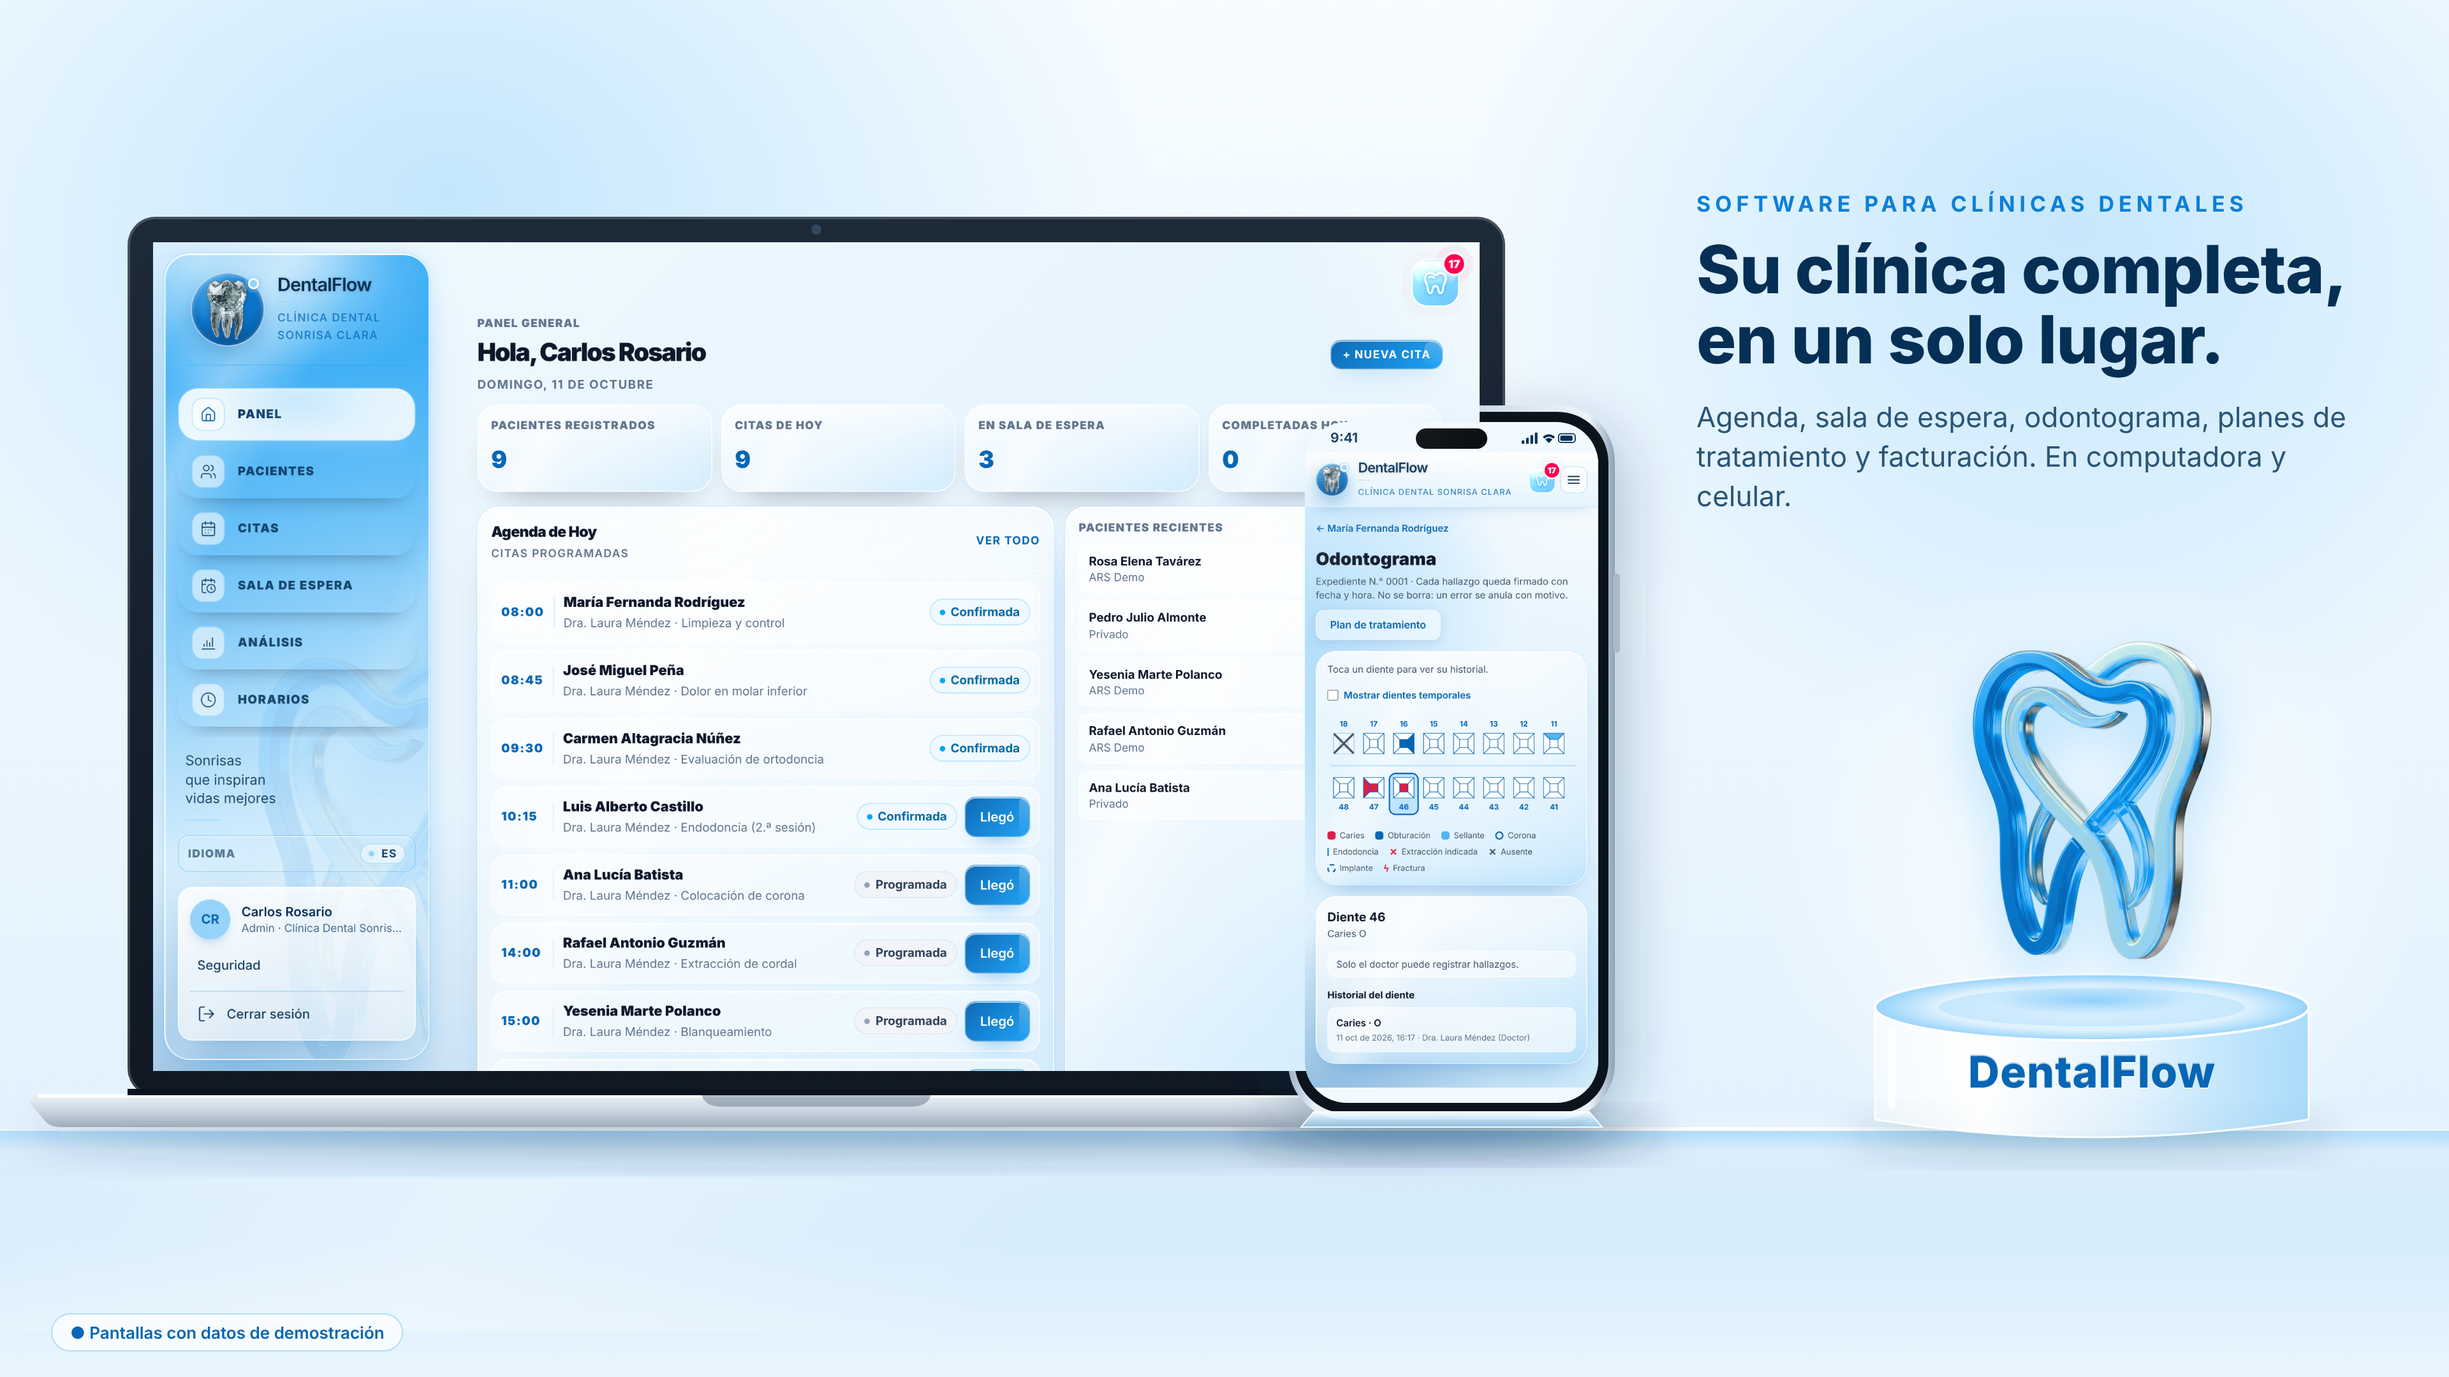
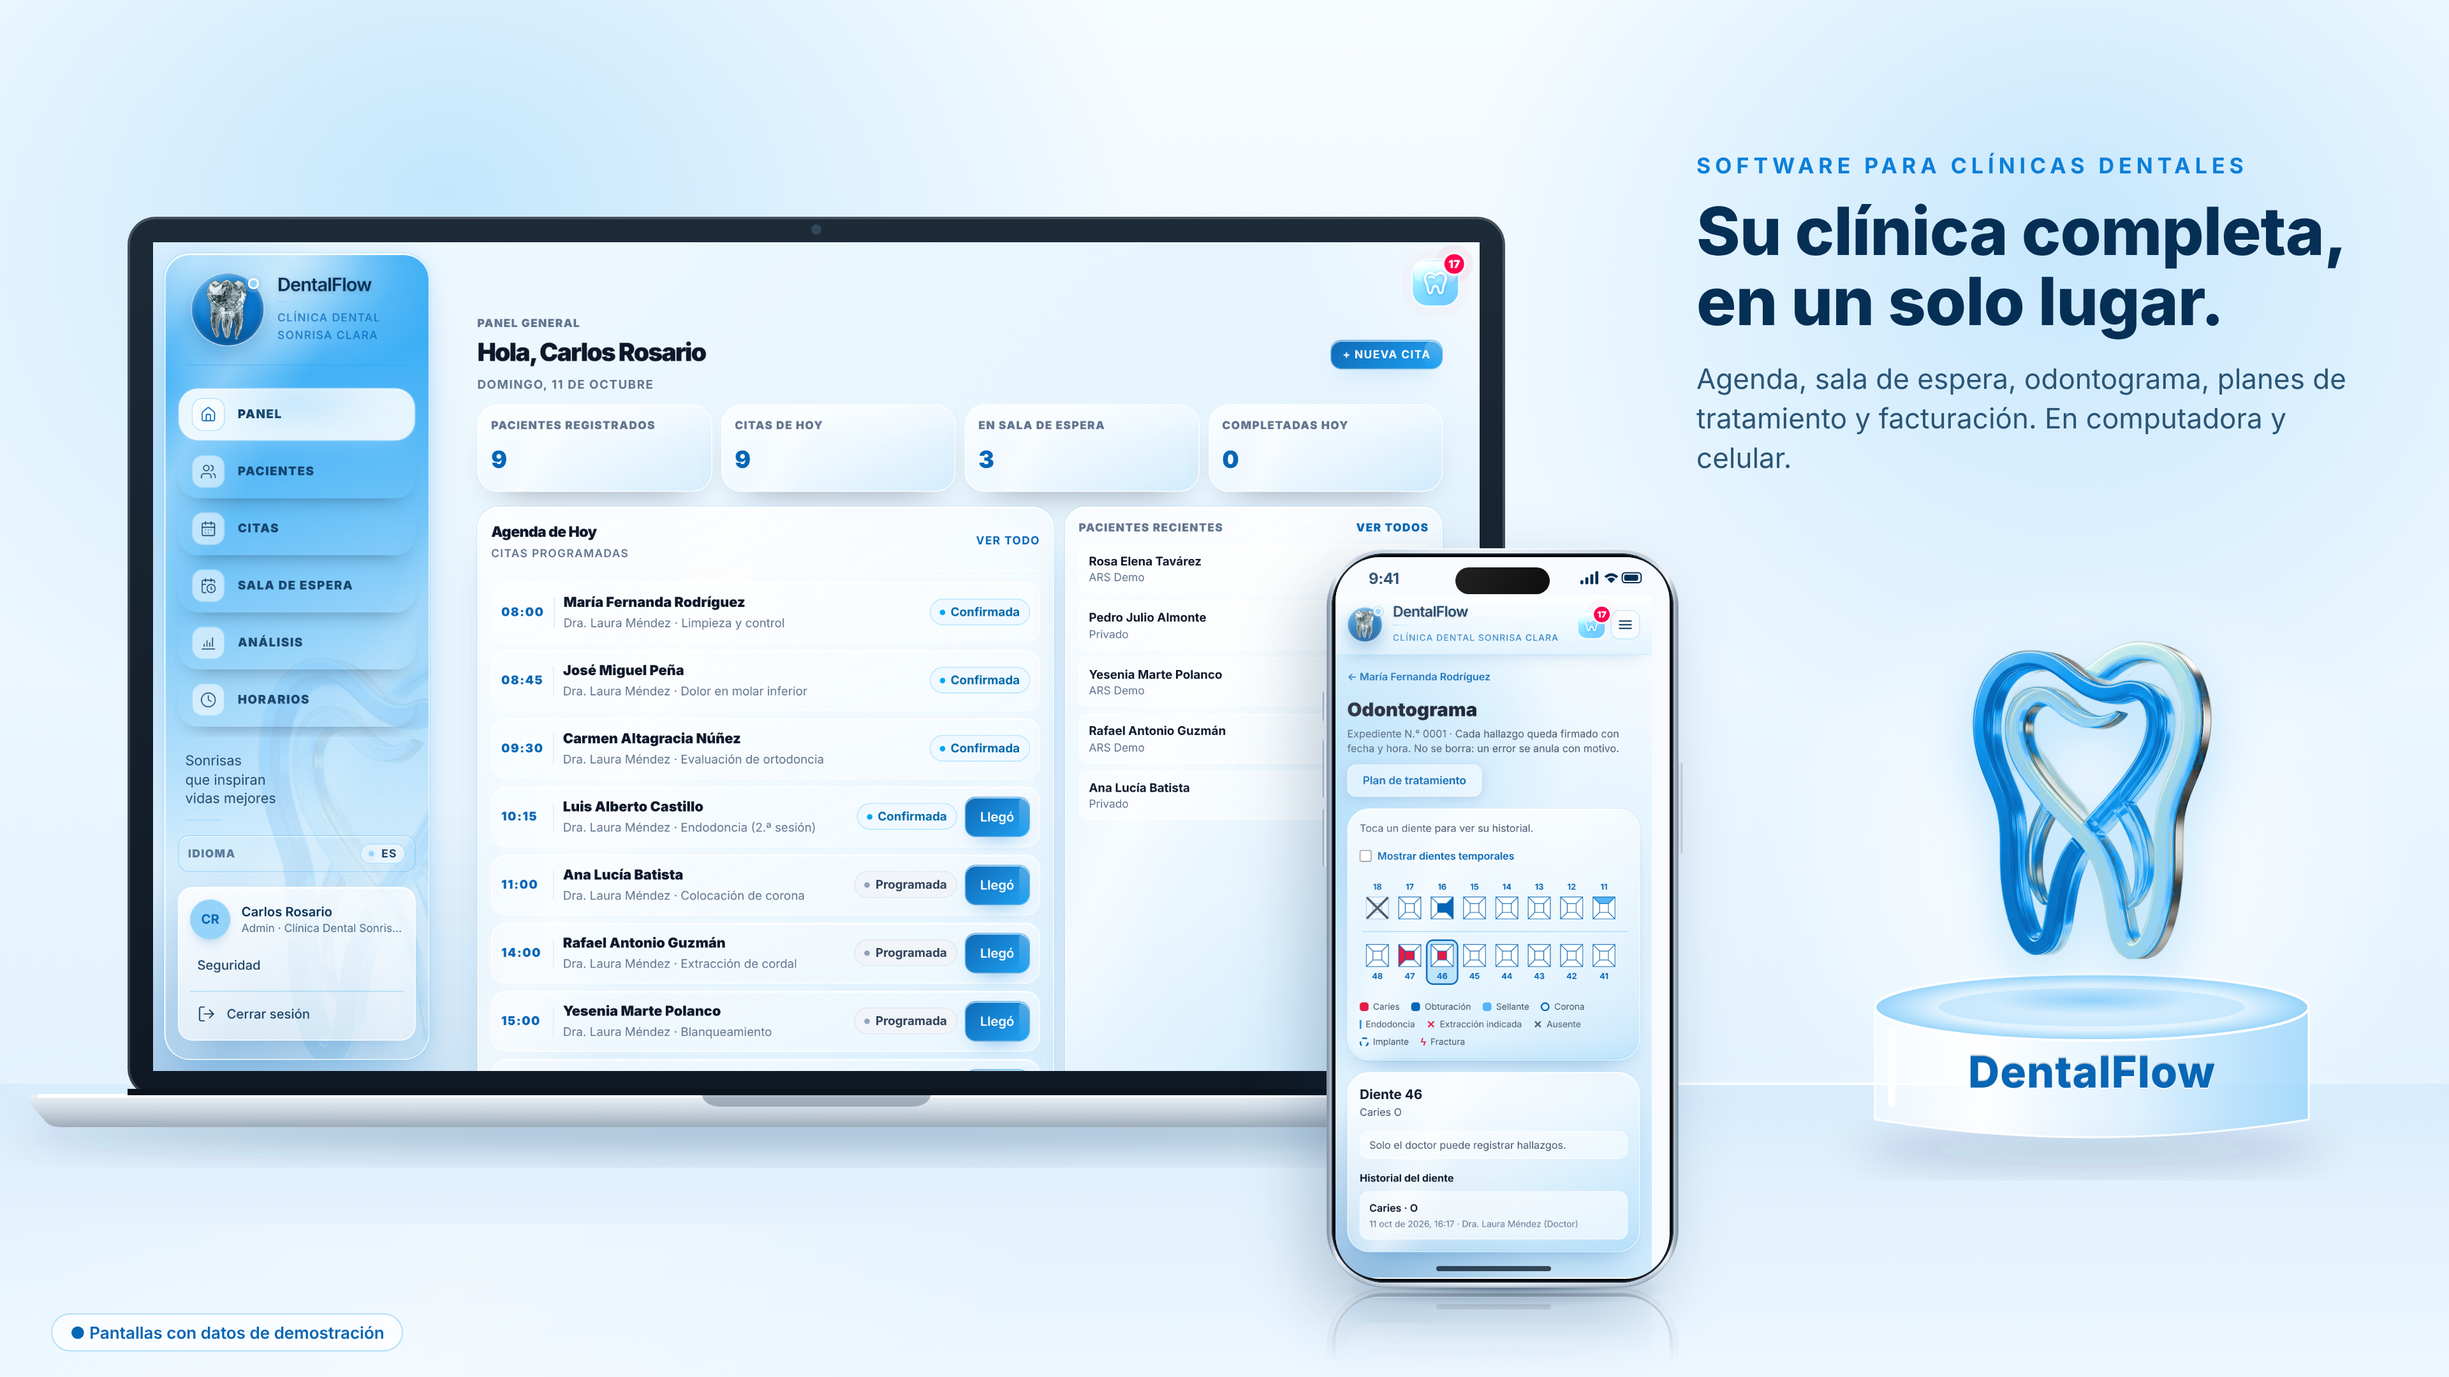
Imagen principal: celular realista delante de la laptop
- Celular nuevo: marco de titanio claro, bisel negro fino, Dynamic Island,
  barra de inicio y pantalla a ras (sin la franja vacía de abajo).
- Ya no tapa datos de la laptop a medias ni se apoya en el soporte
  trapezoidal: está delante, sobre la mesa, con sombra de contacto y reflejo.
- La mesa tiene profundidad (borde trasero suave) en vez del borde duro.
- ESLint ignora docs/ (scripts de material de venta, no son de la app).

Claude-Session: https://claude.ai/code/session_01CmWgbumtTca9EihXzwD1qY

Changed region(s): [[0.0, 0.0931, 0.9688, 0.9616], [0.875, 0.8065, 1.0, 0.8375]]

diff --git a/docs/marketing/hero/hero.html b/docs/marketing/hero/hero.html
@@ -5,36 +5,41 @@
 @font-face{font-family:Inter;src:url(file:///usr/share/fonts/opentype/inter/Inter-ExtraBold.otf);font-weight:800}
 html,body{margin:0;width:1920px;height:1080px;overflow:hidden;font-family:Inter;background:linear-gradient(180deg,#F7FCFF 0%,#EAF6FF 55%,#DCEFFD 100%)}
 .a{position:absolute}
+/* teléfono: 276×580, marco de titanio claro, bisel negro fino y pantalla a ras */
+.ph{position:absolute;width:276px;height:580px}
+.ph .btn{position:absolute;width:4px;border-radius:2px;background:linear-gradient(90deg,#8193a6,#e6edf4 45%,#a7b6c6)}
+.ph .body{position:absolute;inset:0;border-radius:46px;background:linear-gradient(90deg,#7f91a5 0%,#eef3f8 3%,#c2cedb 9%,#dde6ee 30%,#e8eef4 50%,#d3dde7 72%,#c2cedb 91%,#f2f6fa 97%,#7f91a5 100%);box-shadow:inset 0 1px 1px rgba(255,255,255,.9),inset 0 -1px 2px rgba(6,47,85,.35)}
+.ph .bezel{position:absolute;inset:4px;border-radius:42px;background:#04070b;box-shadow:inset 0 0 0 1px #26313d}
+.ph .screen{position:absolute;inset:7px;border-radius:35px;overflow:hidden;background:#F7FBFF}
+.ph .sb{height:30px;position:relative;background:#F7FBFF}
+.ph .sb .t{position:absolute;left:26px;top:9px;font-size:12px;font-weight:700;color:#062F55;letter-spacing:-.2px}
+.ph .sb svg{position:absolute;right:20px;top:11px}
+.ph .island{position:absolute;left:94px;top:8px;width:74px;height:21px;border-radius:11px;background:#000}
+.ph .shot{display:block;width:248px;height:535px}
+.ph .home{position:absolute;left:79px;bottom:6px;width:90px;height:4px;border-radius:2px;background:rgba(6,20,35,.75)}
+.ph .glare{position:absolute;inset:7px;border-radius:35px;background:linear-gradient(118deg,rgba(255,255,255,.22) 0%,rgba(255,255,255,.06) 32%,rgba(255,255,255,0) 33%)}
 </style></head><body>
 <!-- brillos -->
 <div class="a" style="left:-200px;top:-300px;width:1100px;height:900px;border-radius:50%;background:radial-gradient(closest-side,rgba(149,211,250,.5),transparent)"></div>
 <div class="a" style="left:1150px;top:-250px;width:950px;height:850px;border-radius:50%;background:radial-gradient(closest-side,rgba(83,182,247,.28),transparent)"></div>
 <div class="a" style="left:1380px;top:440px;width:520px;height:520px;border-radius:50%;background:radial-gradient(closest-side,rgba(255,255,255,.95),transparent)"></div>
-<!-- piso bajo la mesa -->
-<div class="a" style="left:0;top:884px;width:1920px;height:196px;background:linear-gradient(180deg,#D3EAFB,#C4E2F8)"></div>
+<!-- mesa de cristal con profundidad: borde trasero en y=850; laptop apoyada en 884, diente en ~905, teléfono delante en 1010 -->
+<div class="a" style="left:0;top:850px;width:1920px;height:230px;background:linear-gradient(180deg,#D5EBFC 0%,#E1F1FD 30%,#EDF7FF 100%)"></div>
+<div class="a" style="left:0;top:849px;width:1920px;height:2px;background:linear-gradient(90deg,rgba(255,255,255,0),rgba(255,255,255,.95) 20%,rgba(255,255,255,.95) 80%,rgba(255,255,255,0));box-shadow:0 0 14px rgba(255,255,255,.9)"></div>
 <!-- reflejos en el vidrio -->
-<div class="a" style="left:120px;top:888px;width:1040px;height:190px;overflow:hidden;opacity:.22;-webkit-mask-image:linear-gradient(180deg,#000,transparent 85%)"><img src="hero_desktop.png" style="width:1040px;height:650px;transform:scaleY(-1);transform-origin:top;margin-top:-650px;display:block"></div>
-<div class="a" style="left:1020px;top:888px;width:236px;height:150px;overflow:hidden;opacity:.25;-webkit-mask-image:linear-gradient(180deg,#000,transparent 80%)"><img src="hero_mobile.png" style="width:236px;height:511px;transform:scaleY(-1);transform-origin:top;margin-top:-511px;display:block"></div>
-<!-- mesa de cristal -->
-<div class="a" style="left:0;top:884px;width:1920px;height:196px;background:linear-gradient(180deg,rgba(255,255,255,.18),rgba(224,242,254,.55) 45%,rgba(240,249,255,.85))"></div>
-<div class="a" style="left:0;top:884px;width:1920px;height:3px;background:linear-gradient(90deg,rgba(255,255,255,.4),#fff 30%,#fff 70%,rgba(255,255,255,.4));box-shadow:0 0 18px rgba(255,255,255,.9)"></div>
-<div class="a" style="left:0;top:887px;width:1920px;height:16px;background:linear-gradient(180deg,rgba(14,155,243,.22),transparent)"></div>
-<div class="a" style="left:-100px;top:924px;width:900px;height:120px;transform:skewX(-35deg);background:linear-gradient(90deg,transparent,rgba(255,255,255,.35),transparent)"></div>
+<div class="a" style="left:120px;top:888px;width:1040px;height:190px;overflow:hidden;opacity:.2;-webkit-mask-image:linear-gradient(180deg,#000,transparent 80%)"><img src="hero_desktop.png" style="width:1040px;height:650px;transform:scaleY(-1);transform-origin:top;margin-top:-650px;display:block"></div>
+<div class="a" style="left:-100px;top:960px;width:900px;height:120px;transform:skewX(-35deg);background:linear-gradient(90deg,transparent,rgba(255,255,255,.35),transparent)"></div>
 <svg class="a" style="left:0;top:0" width="1920" height="1080">
  <defs>
   <linearGradient id="lid" x1="0" y1="0" x2="0" y2="1"><stop offset="0" stop-color="#1d2a38"/><stop offset="1" stop-color="#0f1823"/></linearGradient>
   <linearGradient id="base" x1="0" y1="0" x2="0" y2="1"><stop offset="0" stop-color="#eef3f8"/><stop offset=".45" stop-color="#cfd9e3"/><stop offset="1" stop-color="#9eacba"/></linearGradient>
-  <linearGradient id="frame" x1="0" y1="0" x2="1" y2="0"><stop offset="0" stop-color="#9fb2c4"/><stop offset=".08" stop-color="#e9f1f8"/><stop offset=".5" stop-color="#c7d5e2"/><stop offset=".92" stop-color="#eef4fa"/><stop offset="1" stop-color="#8ea2b6"/></linearGradient>
   <linearGradient id="ped" x1="0" y1="0" x2="1" y2="0"><stop offset="0" stop-color="rgba(255,255,255,.55)"/><stop offset=".25" stop-color="rgba(255,255,255,.95)"/><stop offset=".6" stop-color="rgba(224,242,254,.85)"/><stop offset="1" stop-color="rgba(149,211,250,.75)"/></linearGradient>
   <radialGradient id="pedtop" cx=".5" cy=".5" r=".5"><stop offset="0" stop-color="#fff"/><stop offset=".7" stop-color="#E0F2FE"/><stop offset="1" stop-color="#95D3FA"/></radialGradient>
-  <linearGradient id="plinth" x1="0" y1="0" x2="0" y2="1"><stop offset="0" stop-color="rgba(255,255,255,.95)"/><stop offset="1" stop-color="rgba(149,211,250,.6)"/></linearGradient>
   <filter id="sh" x="-20%" y="-50%" width="140%" height="200%"><feGaussianBlur stdDeviation="14"/></filter>
-  <filter id="sh2" x="-30%" y="-30%" width="160%" height="160%"><feGaussianBlur stdDeviation="22"/></filter>
  </defs>
- <!-- sombras -->
- <ellipse cx="640" cy="890" rx="620" ry="16" fill="rgba(6,47,85,.28)" filter="url(#sh)"/>
- <ellipse cx="1138" cy="890" rx="170" ry="13" fill="rgba(6,47,85,.32)" filter="url(#sh)"/>
- <ellipse cx="1640" cy="890" rx="190" ry="14" fill="rgba(6,47,85,.22)" filter="url(#sh)"/>
+ <!-- sombras de contacto -->
+ <ellipse cx="640" cy="888" rx="620" ry="14" fill="rgba(6,47,85,.28)" filter="url(#sh)"/>
+ <ellipse cx="1640" cy="902" rx="185" ry="12" fill="rgba(6,47,85,.2)" filter="url(#sh)"/>
  <!-- laptop: pantalla 120,190 1040x650 -->
  <rect x="100" y="170" width="1080" height="690" rx="22" fill="url(#lid)"/>
  <rect x="101" y="171" width="1078" height="688" rx="21" fill="none" stroke="rgba(255,255,255,.18)" stroke-width="2"/>
@@ -43,37 +48,46 @@ html,body{margin:0;width:1920px;height:1080px;overflow:hidden;font-family:Inter;
  <rect x="30" y="858" width="1220" height="3" fill="rgba(255,255,255,.95)"/>
  <path d="M550 858 H730 Q728 868 714 868 H566 Q552 868 550 858Z" fill="rgba(110,128,146,.55)"/>
  <rect x="100" y="854" width="1080" height="5" fill="#0b131c"/>
- <!-- sombra del teléfono sobre la laptop -->
- <rect x="1000" y="330" width="276" height="560" rx="50" fill="rgba(6,47,85,.25)" filter="url(#sh2)"/>
- <!-- teléfono: cuerpo 1010,318 256x560 -->
- <rect x="1010" y="318" width="256" height="560" rx="44" fill="url(#frame)"/>
- <rect x="1015" y="323" width="246" height="550" rx="40" fill="#0b131c"/>
- <rect x="1006" y="430" width="5" height="38" rx="2.5" fill="#a9bacb"/><rect x="1006" y="478" width="5" height="38" rx="2.5" fill="#a9bacb"/><rect x="1265" y="450" width="5" height="62" rx="2.5" fill="#a9bacb"/>
- <path d="M1030 872 H1246 L1256 884 H1020 Z" fill="url(#plinth)" stroke="rgba(255,255,255,.9)" stroke-width="1"/>
  <!-- pedestal -->
  <path d="M1470 790 V878 Q1640 906 1810 878 V790 Z" fill="url(#ped)" stroke="rgba(255,255,255,.9)" stroke-width="1.5"/>
  <ellipse cx="1640" cy="790" rx="170" ry="26" fill="url(#pedtop)" stroke="#fff" stroke-width="2"/>
  <ellipse cx="1640" cy="790" rx="120" ry="15" fill="rgba(14,155,243,.12)"/>
  <rect x="1480" y="805" width="6" height="64" rx="3" fill="rgba(255,255,255,.9)"/>
 </svg>
-<!-- pantallas -->
+<!-- pantalla de la laptop -->
 <img class="a" src="hero_desktop.png" style="left:120px;top:190px;width:1040px;height:650px">
-<div class="a" style="left:1023px;top:331px;width:230px;height:534px;border-radius:33px;overflow:hidden;background:#F2FAFF">
-  <div style="height:24px;position:relative"><span style="position:absolute;left:20px;top:6px;font-size:10.5px;font-weight:700;color:#062F55">9:41</span>
-   <svg style="position:absolute;right:16px;top:8px" width="44" height="10" viewBox="0 0 64 14"><rect x="0" y="9" width="3" height="4" rx="1" fill="#062F55"/><rect x="5" y="6" width="3" height="7" rx="1" fill="#062F55"/><rect x="10" y="3" width="3" height="10" rx="1" fill="#062F55"/><rect x="15" y="0" width="3" height="13" rx="1" fill="#062F55"/><path d="M24 5 Q31 -1 38 5 L36 7 Q31 2.5 26 7Z M27 8 Q31 4.5 35 8 L31 12Z" fill="#062F55"/><rect x="42" y="1.5" width="19" height="10" rx="3" fill="none" stroke="#062F55" stroke-width="1.3"/><rect x="44" y="3.5" width="14" height="6" rx="1.5" fill="#062F55"/></svg>
-   <div style="position:absolute;left:87px;top:5px;width:56px;height:16px;border-radius:8px;background:#05080c"></div></div>
-  <img src="hero_mobile.png" style="width:230px;height:498px;display:block">
+<!-- teléfono delante de la laptop, apoyado en la mesa (base en y=1010) -->
+<div class="a" style="left:1047px;top:996px;width:262px;height:30px;border-radius:50%;background:radial-gradient(closest-side,rgba(6,47,85,.32),transparent)"></div>
+<div class="a" style="left:1073px;top:1004px;width:210px;height:10px;border-radius:50%;background:radial-gradient(closest-side,rgba(6,30,55,.55),transparent)"></div>
+<div id="phone" class="ph" style="left:1040px;top:430px;filter:drop-shadow(-14px 22px 26px rgba(6,47,85,.22))">
+ <div class="btn" style="left:-3px;top:112px;height:24px"></div><div class="btn" style="left:-3px;top:150px;height:46px"></div><div class="btn" style="left:-3px;top:204px;height:46px"></div><div class="btn" style="right:-3px;top:168px;height:72px"></div>
+ <div class="body"></div>
+ <div class="bezel"></div>
+ <div class="screen">
+  <div class="sb"><span class="t">9:41</span>
+   <svg width="50" height="11" viewBox="0 0 64 14"><rect x="0" y="9" width="3" height="4" rx="1" fill="#062F55"/><rect x="5" y="6" width="3" height="7" rx="1" fill="#062F55"/><rect x="10" y="3" width="3" height="10" rx="1" fill="#062F55"/><rect x="15" y="0" width="3" height="13" rx="1" fill="#062F55"/><path d="M24 5 Q31 -1 38 5 L36 7 Q31 2.5 26 7Z M27 8 Q31 4.5 35 8 L31 12Z" fill="#062F55"/><rect x="42" y="1.5" width="19" height="10" rx="3" fill="none" stroke="#062F55" stroke-width="1.3"/><rect x="44" y="3.5" width="14" height="6" rx="1.5" fill="#062F55"/></svg>
+   <div class="island"></div></div>
+  <img class="shot" src="hero_mobile.png">
+  <div class="home"></div>
+ </div>
+ <div class="glare"></div>
 </div>
-<div class="a" style="left:1023px;top:331px;width:230px;height:534px;border-radius:33px;background:linear-gradient(125deg,rgba(255,255,255,.14) 0%,rgba(255,255,255,0) 30%)"></div>
 <!-- diente (tamaño nativo) -->
 <div class="a" style="left:1564px;top:774px;width:152px;height:22px;border-radius:50%;background:radial-gradient(closest-side,rgba(14,155,243,.35),transparent)"></div>
 <img class="a" src="../../../public/dentalflow-mark-sky.png" style="left:1543px;top:500px;width:194px;height:255px;filter:drop-shadow(0 16px 22px rgba(14,155,243,.28))">
 <div class="a" style="left:1470px;top:820px;width:340px;text-align:center;font-weight:800;font-size:34px;letter-spacing:.5px;color:#0766B5;text-shadow:0 1px 0 rgba(255,255,255,.9),0 -1px 0 rgba(6,47,85,.25)">DentalFlow</div>
 <!-- texto -->
-<div class="a" style="left:1330px;top:150px;width:540px">
+<div class="a" style="left:1330px;top:120px;width:540px">
  <div style="font-size:17px;font-weight:700;letter-spacing:3.5px;color:#0D7FD8">SOFTWARE PARA CLÍNICAS DENTALES</div>
  <div style="margin-top:14px;font-size:52px;line-height:1.06;font-weight:800;color:#062F55;letter-spacing:-.5px">Su clínica completa, en un solo lugar.</div>
  <div style="margin-top:18px;font-size:22px;line-height:1.4;color:#2b5576">Agenda, sala de espera, odontograma, planes de tratamiento y facturación. En computadora y celular.</div>
 </div>
 <div class="a" style="left:40px;top:1030px;padding:6px 14px;border-radius:999px;background:rgba(255,255,255,.7);border:1px solid rgba(14,155,243,.3);color:#0766B5;font-weight:600;font-size:13px">● Pantallas con datos de demostración</div>
+<script>
+// reflejo del teléfono en el vidrio: copia invertida bajo su base, desvanecida
+const ph = document.getElementById("phone"), box = document.createElement("div"), r = ph.cloneNode(true);
+r.removeAttribute("id"); r.style.cssText = "left:0;top:-580px;transform:scaleY(-1);transform-origin:bottom";
+box.className = "a"; box.style.cssText = "left:1040px;top:1010px;width:276px;height:70px;overflow:hidden;opacity:.22;-webkit-mask-image:linear-gradient(180deg,#000,transparent 85%)";
+box.appendChild(r); ph.parentNode.insertBefore(box, ph);
+</script>
 </body></html>
